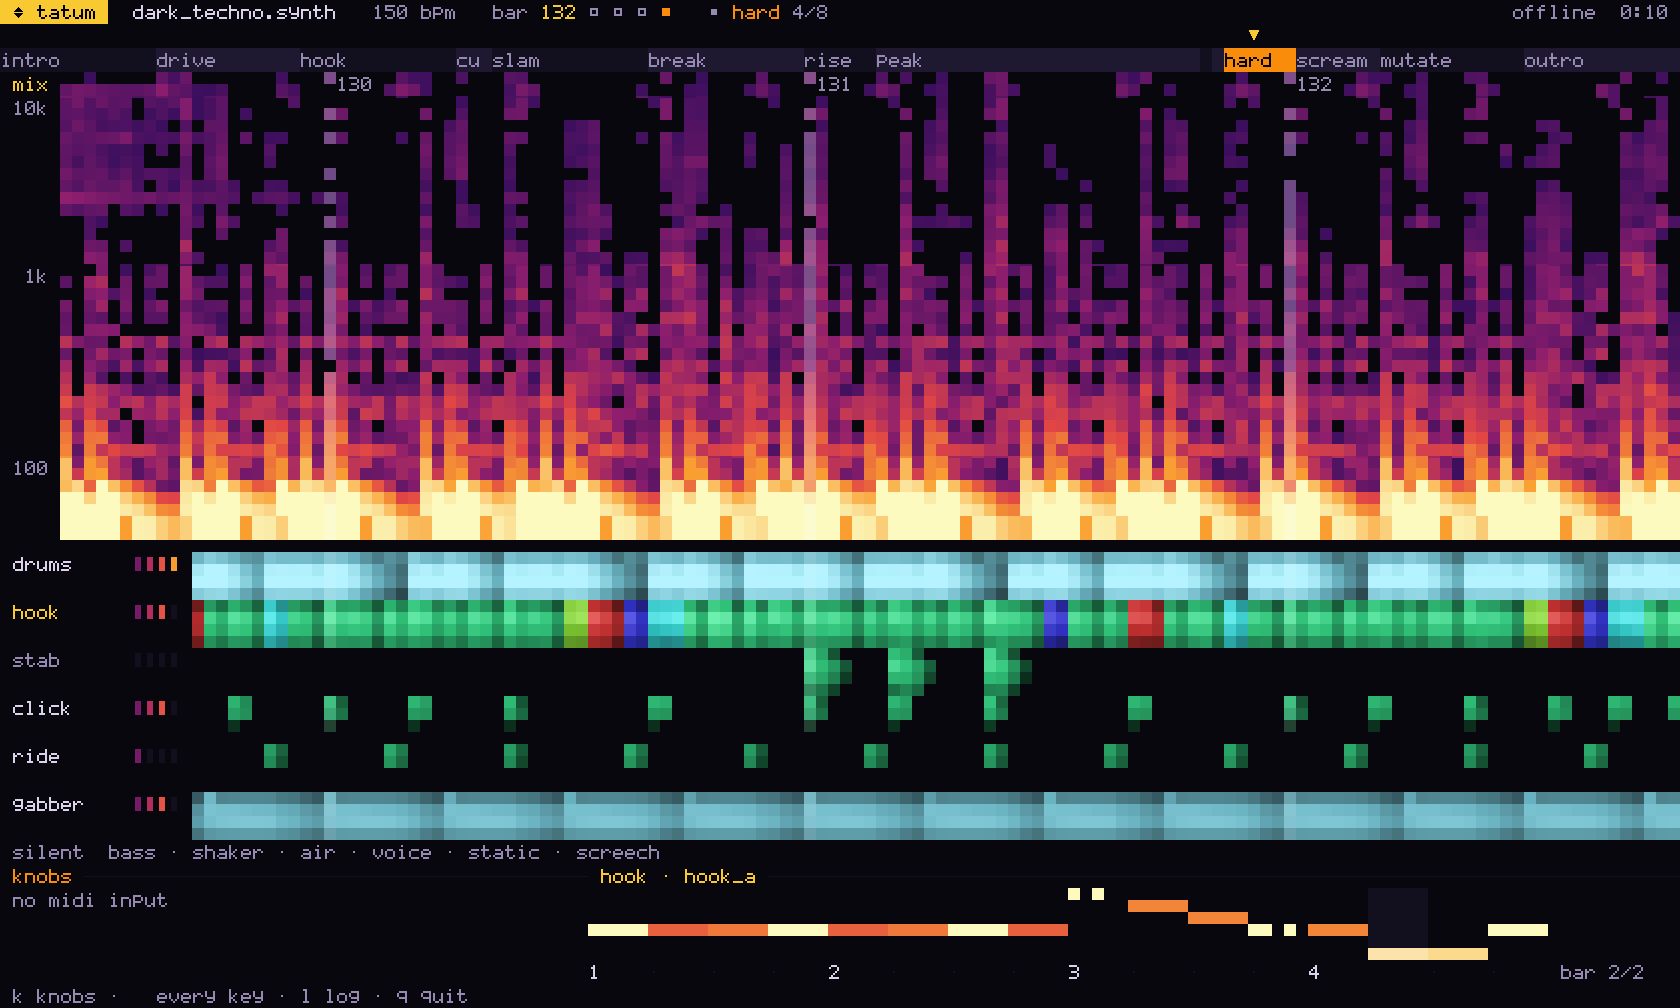
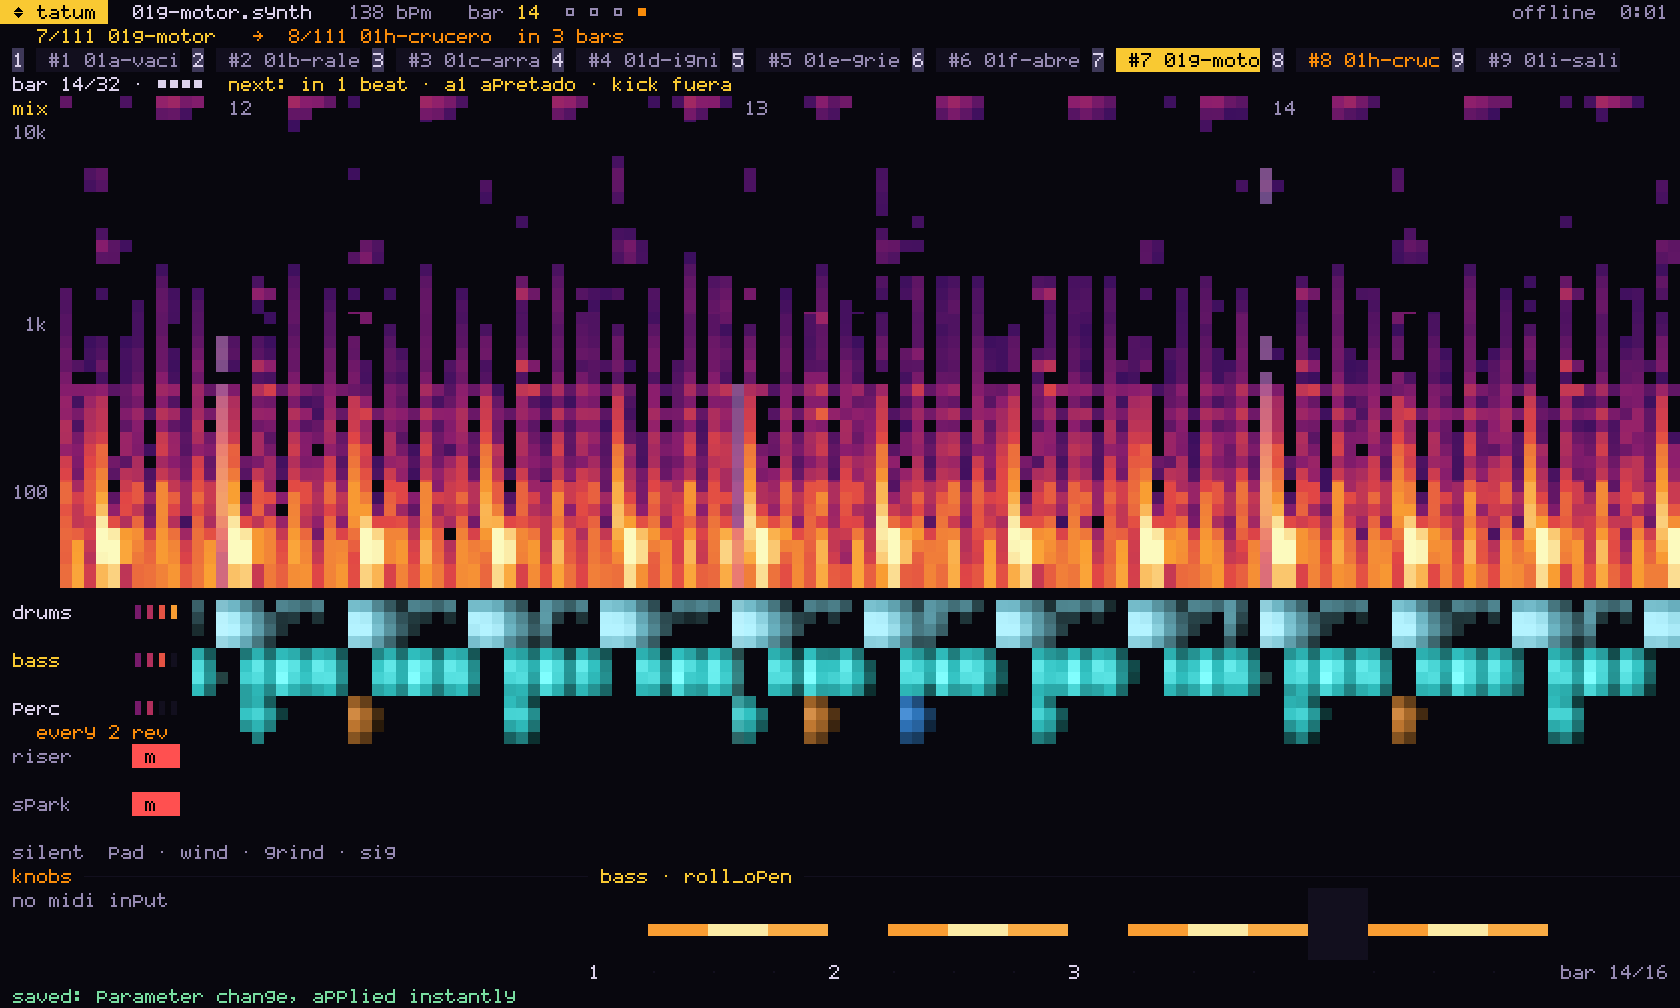
README with a story, the name explained, and pictures of the screen
The README opens on what tatum is for, in three short paragraphs, says why it
is called tatum (Bilmes's temporal atom, after Art Tatum, and the step grid it
names here), lists what is in it, and shows the live screen on a set, the
screen on a song, and tatum debug's sheet. A comment marks where the video
goes and how GitHub takes one.

TUI.md shows the screen on a set and on a song, the help, the knob list and
the step picker; CLI.md shows debug's sheet. Every picture was taken with
tui-shot or tatum debug.

The pictures' font gains the characters the live screen writes and it drew as
blanks: ? ! ' ` " [ ] < > = * # ~ & and the four arrows, which name the keys
in the help. An accented letter is drawn as its plain one, so a Spanish step
name keeps its letters.

diff --git a/debug/src/picture.rs b/debug/src/picture.rs
@@ -128,10 +128,21 @@ pub fn heat(t: f32) -> Rgb {
     STOPS[STOPS.len() - 1].1
 }
 
-/// 5x7 glyphs for what labels need: lower-case letters, digits and a little
-/// punctuation. Upper case is drawn as lower case; anything else as a blank.
+/// 5x7 glyphs for what labels need: lower-case letters, digits, punctuation
+/// and the arrows the live screen's keys are named with. Upper case is drawn
+/// as lower case and an accented letter as its plain one; anything else as a
+/// blank.
 fn glyph(c: char) -> [&'static str; 7] {
-    match c.to_ascii_lowercase() {
+    let c = match c.to_lowercase().next().unwrap_or(c) {
+        'á' | 'à' | 'ä' | 'â' => 'a',
+        'é' | 'è' | 'ë' | 'ê' => 'e',
+        'í' | 'ì' | 'ï' | 'î' => 'i',
+        'ó' | 'ò' | 'ö' | 'ô' => 'o',
+        'ú' | 'ù' | 'ü' | 'û' => 'u',
+        'ñ' => 'n',
+        other => other,
+    };
+    match c {
         'a' => [".....", ".....", ".###.", "....#", ".####", "#...#", ".####"],
         'b' => ["#....", "#....", "####.", "#...#", "#...#", "#...#", "####."],
         'c' => [".....", ".....", ".####", "#....", "#....", "#....", ".####"],
@@ -179,6 +190,24 @@ fn glyph(c: char) -> [&'static str; 7] {
         ')' => [".#...", "..#..", "...#.", "...#.", "...#.", "..#..", ".#..."],
         '%' => ["##...", "##..#", "...#.", "..#..", ".#...", "#..##", "...##"],
         '|' => ["..#..", "..#..", "..#..", "..#..", "..#..", "..#..", "..#.."],
+        '?' => [".###.", "#...#", "....#", "...#.", "..#..", ".....", "..#.."],
+        '!' => ["..#..", "..#..", "..#..", "..#..", "..#..", ".....", "..#.."],
+        '\'' => ["..#..", "..#..", ".#...", ".....", ".....", ".....", "....."],
+        '`' => [".#...", "..#..", ".....", ".....", ".....", ".....", "....."],
+        '"' => [".#.#.", ".#.#.", ".....", ".....", ".....", ".....", "....."],
+        '[' => [".###.", ".#...", ".#...", ".#...", ".#...", ".#...", ".###."],
+        ']' => [".###.", "...#.", "...#.", "...#.", "...#.", "...#.", ".###."],
+        '<' => ["...#.", "..#..", ".#...", "#....", ".#...", "..#..", "...#."],
+        '>' => [".#...", "..#..", "...#.", "....#", "...#.", "..#..", ".#..."],
+        '=' => [".....", ".....", "#####", ".....", "#####", ".....", "....."],
+        '*' => [".....", "#.#.#", ".###.", "#####", ".###.", "#.#.#", "....."],
+        '#' => [".#.#.", ".#.#.", "#####", ".#.#.", "#####", ".#.#.", ".#.#."],
+        '~' => [".....", ".....", ".#...", "#.#.#", "...#.", ".....", "....."],
+        '&' => [".##..", "#..#.", ".##..", ".#...", "#.#.#", "#..#.", ".##.#"],
+        '←' => [".....", "..#..", ".#...", "#####", ".#...", "..#..", "....."],
+        '→' => [".....", "..#..", "...#.", "#####", "...#.", "..#..", "....."],
+        '↑' => ["..#..", ".###.", "#.#.#", "..#..", "..#..", "..#..", "..#.."],
+        '↓' => ["..#..", "..#..", "..#..", "..#..", "#.#.#", ".###.", "..#.."],
         _ => [".....", ".....", ".....", ".....", ".....", ".....", "....."],
     }
 }

diff --git a/README.md b/README.md
@@ -1,17 +1,80 @@
-# tatum
+<h1 align="center">tatum</h1>
 
-[![CI](https://github.com/sebasusnik/tatum/actions/workflows/ci.yml/badge.svg)](https://github.com/sebasusnik/tatum/actions/workflows/ci.yml)
+<p align="center">
+  <b>Music as text. Write a song like code, hear every save on the next bar, play it live.</b>
+</p>
 
-Music as text. A song is a `.synth` file: instruments, patterns, tracks, scenes and an
-arrangement, written in a strict little language that the compiler checks the way a
-programming language would, with line numbers, suggestions and warnings about the mix.
-The engine that plays it is a Rust synthesizer (`no_std`, zero dependencies): four
-Volca-style instruments (acid bass, 4-op FM, poly keys, drum machine) plus instruments
-built from nodes, a 16-step sequencer with swing, ties, slides, arpeggiator and
-parameter locks, insert and send effects, and every song leaves at the same loudness.
-It runs as a CLI, live from your editor (`watch` swaps in each save on the next bar), in
-the browser through WASM, and behind an MCP server so an AI can write songs with the
-compiler in the loop.
+<p align="center">
+  <a href="https://github.com/sebasusnik/tatum/actions/workflows/ci.yml"><img src="https://github.com/sebasusnik/tatum/actions/workflows/ci.yml/badge.svg" alt="CI"></a>
+  <img src="https://img.shields.io/badge/engine-Rust%20no__std-b7410e" alt="Rust no_std engine">
+  <img src="https://img.shields.io/badge/runs%20in-CLI%20%C2%B7%20browser%20%C2%B7%20MCP-5b3a8a" alt="CLI, browser, MCP">
+  <img src="https://img.shields.io/badge/license-MIT%20%2F%20Apache--2.0-2b6cb0" alt="MIT / Apache-2.0">
+</p>
+
+<!--
+  VIDEO PLACEHOLDER
+  GitHub plays an MP4 in a README only when it is uploaded through the web editor:
+  edit this file on github.com, drag the video onto this spot, and GitHub writes a
+  https://github.com/user-attachments/assets/... link that renders as a player.
+  Keep the picture below as the fallback, or replace it with the video.
+-->
+
+<p align="center">
+  <img src="docs/img/tui.png" alt="tatum's live screen playing a step of the hiperespacio set: the steps, the cue coming up, the mix as a spectrogram, a lane per track, and the bass line's pattern" width="900">
+</p>
+
+A track in a DAW lives in a project file nobody can read. In tatum a song is a page of
+text: the instruments, the patterns, the scenes and the order they come in, in a
+`.synth` file you can read top to bottom, diff, review and keep in git.
+
+Write it in your editor and leave `tatum watch` running beside it. Every save plays on
+the next bar: a changed value at once, a new pattern or a new instrument handed over
+with every tail still ringing. A save that does not compile is reported with its line
+and a suggestion, and the last good version keeps playing, so the music never stops
+while you think.
+
+When it is ready to leave the editor, it goes on stage. A set is a folder of steps,
+each the whole rig at a moment. A pad moves to the next one on the next phrase, the
+knobs of a MIDI controller ride the parameters, and the live screen shows what every
+track is doing. When something sounds wrong, `tatum debug` pulls the mix apart, part by
+part, to find where.
+
+## Why "tatum"
+
+A **tatum** is the smallest regular pulse a listener hears in a piece of music: the
+finest grid its notes fall on. The word was coined by Jeff Bilmes in 1993, from
+*temporal atom*, in honour of the jazz pianist **Art Tatum**, whose runs were so fast
+and so even that they seemed to divide time finer than anyone else.
+
+That grid is where this project lives. A tatum pattern is a row of steps, sixteen to a
+bar of 4/4, and every note, every hit, every slide and every parameter lock lands on
+one of them. The engine counts in tatums, swing bends them, and the live session waits
+for the next bar line, a multiple of them, to swap in what you saved.
+
+## What is in it
+
+- **A language that checks your music the way a compiler checks code.** Errors carry
+  their line and a suggestion; design warnings catch what compiles but will not sound
+  the way it reads, such as a breakdown louder than its drop.
+- **A synthesizer in Rust, `no_std` and with no dependencies.** Four Volca-style
+  instruments (acid bass, 4-op FM, poly keys, drum machine) plus instruments built from
+  nodes, a 16-step sequencer with swing, ties, slides, an arpeggiator and parameter
+  locks, insert and send effects, and every song leaving at the same loudness.
+- **Live coding.** `watch` hot-swaps each save on the next bar; patterns transform
+  TidalCycles-style (`rev`, `fast 2`, `every 4 rev`, `degrade 30%`) from the text or
+  from a key.
+- **Live sets and a controller.** A set is a folder of steps, played with tempo ramps
+  and DJ-style blends; a `midi` block maps knobs, keys and pads to the song.
+- **Tools that listen.** `render` reports the mix section by section, `debug` renders
+  every part apart with spectrograms and finds clicks and mud, `audit` measures every
+  note for what is not its harmonics.
+- **Everywhere.** A CLI, the browser through WASM, and an MCP server so an AI can write
+  songs with the compiler in the loop.
+
+## A song
+
+Two instruments, two patterns, two tracks and two scenes: an acid line over a kick,
+the filter opening as the drop goes on.
 
 ```
 tempo 126
@@ -81,7 +144,7 @@ pads on drums. Every flag is in [docs/CLI.md](docs/CLI.md).
 
 ### The live screen
 
-![The live screen playing dark_techno's hard part](docs/img/tui.png)
+![The live screen playing dark_techno's hard part, the gabber kick's pattern below](docs/img/tui-song.png)
 
 `--tui` runs `play`, `watch` and `set play` full screen, for half a terminal with the
 editor in the other half: the bar and the scene, the arrangement or the set's steps, the
@@ -89,6 +152,14 @@ mix as a scrolling spectrogram, a lane per track, the chosen track's pattern, th
 as they turn, and a save that did not compile, in red, until one does. Its keys mute,
 solo and transform the tracks, writing the words into the file (`rev`, `fast 2`,
 `every 4 rev`), and put knobs on them. See [docs/TUI.md](docs/TUI.md).
+
+### Finding a noise
+
+![tatum debug's sheet for dark_techno: every track, bus and send return as a spectrogram on one time axis, the crowded strip and the mix](docs/img/debug-sheet.png)
+
+`tatum debug` renders once with every part kept apart and stacks them on one time axis
+over the mix, with the sections on top, the clicks marked and a strip where three or
+more parts pile up on the same range.
 
 ## Where to go next
 

diff --git a/docs/TUI.md b/docs/TUI.md
@@ -1,6 +1,6 @@
 # The live screen
 
-![The live screen playing dark_techno's hard part, the hook chosen](img/tui.png)
+![The live screen on a step of the hiperespacio set: the steps, the cue coming up, two tracks muted, one transformed, and the bass line's pattern](img/tui.png)
 
 `tatum play`, `watch` and `set play` take `--tui` and run full screen, meant for half a
 terminal with the editor in the other half:
@@ -11,6 +11,8 @@ tatum set play sets/viaje --tui --midi keylab
 ```
 
 ## What it shows
+
+![A song: dark_techno's hard part, the arrangement on top with the playhead, the gabber kick chosen](img/tui-song.png)
 
 Top to bottom:
 
@@ -33,7 +35,11 @@ Top to bottom:
 
 ## Keys
 
-`?` lists every key on the screen itself. In short:
+`?` lists every key on the screen itself:
+
+![The help overlay: every key, and the patterns the chosen track could play instead](img/tui-help.png)
+
+In short:
 
 | key | what it does |
 |-----|--------------|
@@ -49,6 +55,15 @@ Top to bottom:
 | `←` `→` `Enter` | in a set: look through the steps, go to the one looked at |
 | `1`-`9` `g` `Tab` | in a set: go to a step on screen; pick from every step |
 | `q` `Ctrl-C` | quit; `Esc` never quits |
+
+`k` lists everything the chosen track offers a knob, with what each controller already
+moves; turn a knob while it is open and it moves the one marked, to try it:
+
+![The knob list for the bass: its module's parameters, level, pan, sends and chain nodes, the controllers mapped on them, and the knob in hand](img/tui-knobs.png)
+
+In a set, `g` or `Tab` lists every step, with the one playing and the one queued:
+
+![The step picker over a set of 111 steps](img/tui-steps.png)
 
 The transform keys write into the file, as if typed (see "Transforming a pattern" in [DSL.md](DSL.md#transforming-a-pattern)), so
 the save plays and the change stays. `--glass` is `--tui` painted with cell backgrounds

diff --git a/docs/CLI.md b/docs/CLI.md
@@ -91,6 +91,8 @@ return kept apart, each as it sits in the mix, and writes into
 
 `--bars 17-24` zooms in on those bars; `--dry` adds each track before its insert chain.
 
+![sheet.png for dark_techno: each part's spectrogram on one time axis, sections on top, clicks marked, the crowded strip and the mix](img/debug-sheet.png)
+
 ## audit
 
 ```
@@ -139,7 +141,8 @@ tatum tui-shot <song.synth | set dir> [--step N] [--at <seconds>] [--size 160x48
 ```
 
 A PNG of the `--tui` screen at a moment of a song or a set's step, without a terminal
-or an audio device. Its other flags are in [TUI.md](TUI.md#a-picture-of-the-screen-tui-shot).
+or an audio device. Every picture in [TUI.md](TUI.md) was taken with it; its other
+flags are there too.
 
 ## params
 
